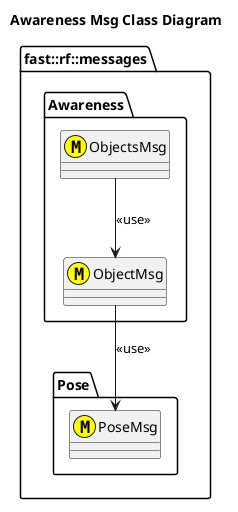
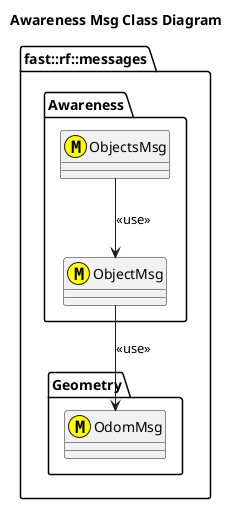
Cleaning up Geometry Messages.

Changed region(s): [[0.1765, 0.7188, 0.7059, 0.9375], [0.7353, 0.75, 0.7941, 0.9375]]

diff --git a/msgs/doc/Messages.md b/msgs/doc/Messages.md
@@ -11,3 +11,5 @@ The following is a listing of all messages created for this framework.
 ![](../Awareness/doc/puml/AwarenessMessageClassDiagram.png)
 
 # Geometry
+
+![](../Geometry/doc/puml/GeometryMessageClassDiagram.png)